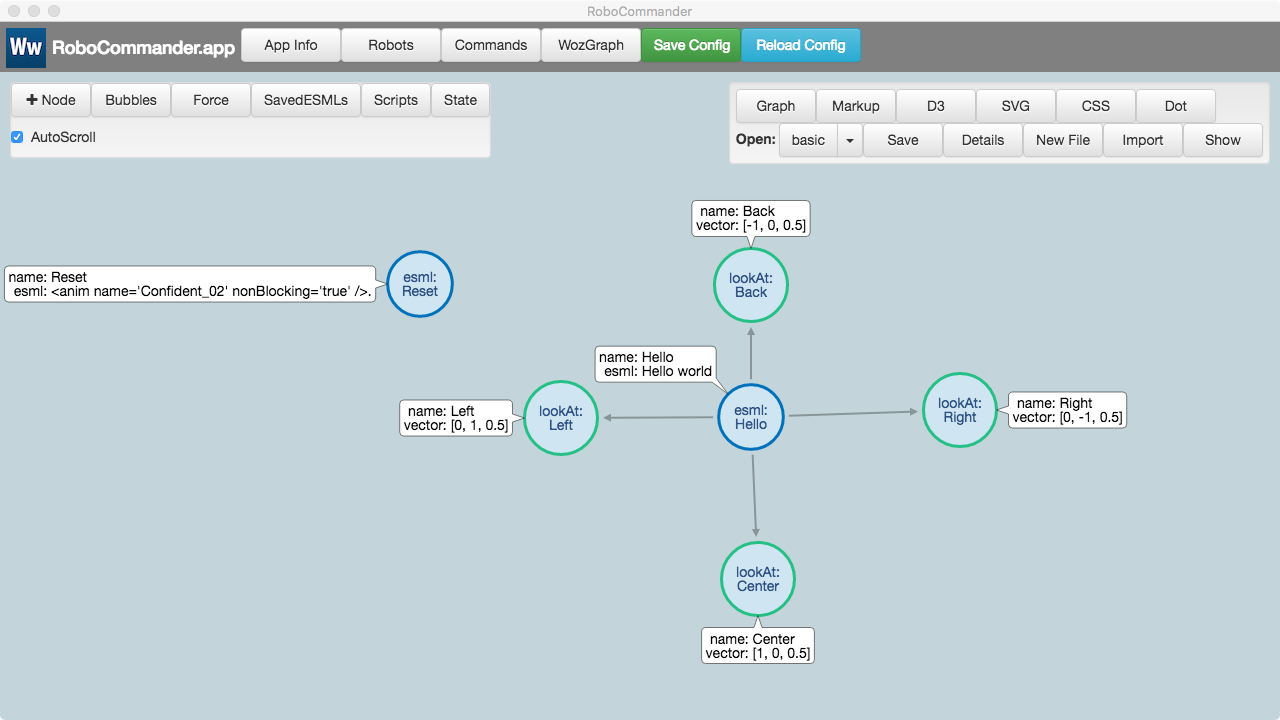
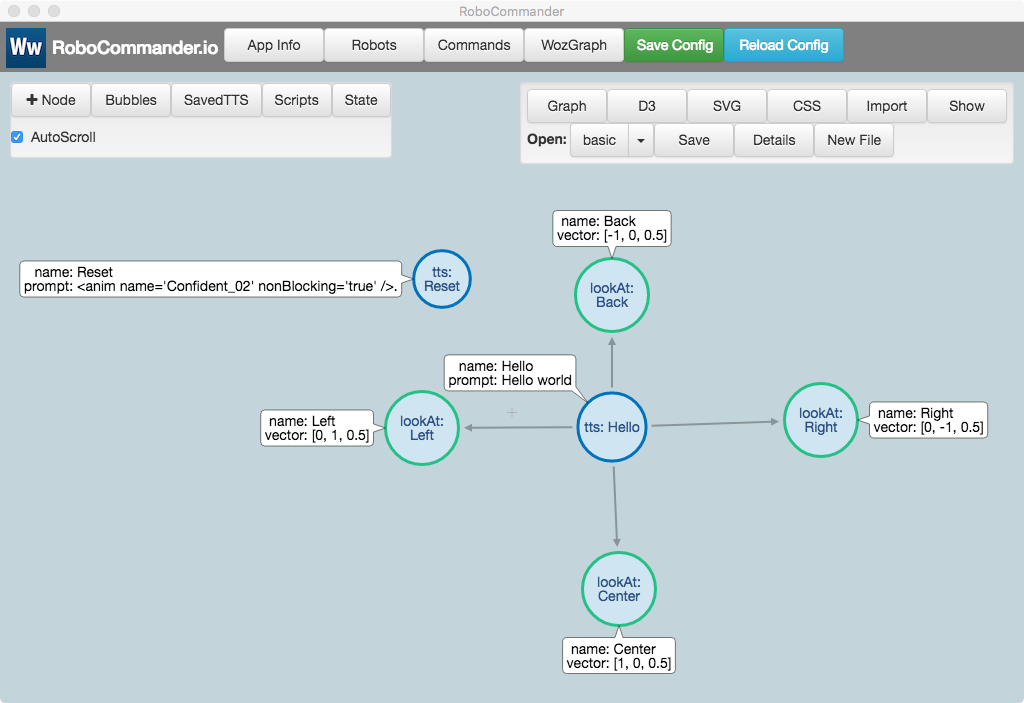
updated docs

diff --git a/src/renderer/components/grapheditor/ToolsPanel.tsx b/src/renderer/components/grapheditor/ToolsPanel.tsx
@@ -215,22 +215,27 @@ export default class ToolsPanel extends React.Component<ToolsPanelProps, ToolsPa
     }
 
     render() {
+        // <ReactBootstrap.Button bsStyle={'default'} key={"exportDot"} style = {{width: 80}}
+        // onClick={this.onButtonClicked.bind(this, "exportDot")}>Dot</ReactBootstrap.Button>
+        // <ReactBootstrap.Button bsStyle={'default'} key={"exportMarkup"} style = {{width: 80}}
+        // onClick={this.onButtonClicked.bind(this, "exportMarkup")}>Markup</ReactBootstrap.Button>
+
         return  <div className="editor-panel well" id="toolsPanel">
                   <div className="tools form-inline">
                     <ModalExport showModalProp={this.state.showModal} onClose={this.onCloseModalExport.bind(this)} graphModel={this.props.graphModel} exportMode={this.state.exportMode} />
                     <ModalFileDetails showModalProp={this.state.showFileDetailsModal} onClose={this.onCloseModalFileDetails.bind(this)} graphModel={this.props.graphModel} fileDetailsMode={this.state.fileDetailsMode} />
                     <ReactBootstrap.Button bsStyle={'default'} key={"exportGraph"} style = {{width: 80}}
                       onClick={this.onButtonClicked.bind(this, "exportGraph")}>Graph</ReactBootstrap.Button>
-                    <ReactBootstrap.Button bsStyle={'default'} key={"exportMarkup"} style = {{width: 80}}
-                      onClick={this.onButtonClicked.bind(this, "exportMarkup")}>Markup</ReactBootstrap.Button>
                     <ReactBootstrap.Button bsStyle={'default'} key={"exportD3"} style = {{width: 80}}
                       onClick={this.onButtonClicked.bind(this, "exportD3")}>D3</ReactBootstrap.Button>
                     <ReactBootstrap.Button bsStyle={'default'} key={"exportSVG"} style = {{width: 80}}
                       onClick={this.onButtonClicked.bind(this, "exportSVG")}>SVG</ReactBootstrap.Button>
                     <ReactBootstrap.Button bsStyle={'default'} key={"exportCSS"} style = {{width: 80}}
                       onClick={this.onButtonClicked.bind(this, "exportCSS")}>CSS</ReactBootstrap.Button>
-                  <ReactBootstrap.Button bsStyle={'default'} key={"exportDot"} style = {{width: 80}}
-                    onClick={this.onButtonClicked.bind(this, "exportDot")}>Dot</ReactBootstrap.Button>
+                  <ReactBootstrap.Button bsStyle={'default'} key={"import"} style = {{width: 80}}
+                      onClick={this.onButtonClicked.bind(this, "import")}>Import</ReactBootstrap.Button>
+                  <ReactBootstrap.Button bsStyle={'default'} key={"show"} style = {{width: 80}}
+                      onClick={this.onButtonClicked.bind(this, "show")}>Show</ReactBootstrap.Button>
 
                     <div>
                         <label className="input-label">Open:</label>
@@ -242,10 +247,7 @@ export default class ToolsPanel extends React.Component<ToolsPanelProps, ToolsPa
                           onClick={this.onButtonClicked.bind(this, "details")}>Details</ReactBootstrap.Button>
                         <ReactBootstrap.Button bsStyle={'default'} key={"newFile"} style = {{width: 80}}
                             onClick={this.onButtonClicked.bind(this, "newFile")}>New File</ReactBootstrap.Button>
-                        <ReactBootstrap.Button bsStyle={'default'} key={"import"} style = {{width: 80}}
-                            onClick={this.onButtonClicked.bind(this, "import")}>Import</ReactBootstrap.Button>
-                        <ReactBootstrap.Button bsStyle={'default'} key={"show"} style = {{width: 80}}
-                            onClick={this.onButtonClicked.bind(this, "show")}>Show</ReactBootstrap.Button>
+
                     </div>
                   </div>
                 </div>;

diff --git a/src/renderer/components/grapheditor/GraphEditor.tsx b/src/renderer/components/grapheditor/GraphEditor.tsx
@@ -717,6 +717,8 @@ export default class GraphEditor extends React.Component < GraphEditorProps, Gra
         let scriptPanel: JSX.Element | null = this.state.showScriptPanel ? <ScriptPanel graphModel={this.graphModel} /> : null;
         let stateDataPanel: JSX.Element | null = this.state.showStateDataPanel ? <StateDataPanel graphModel={this.graphModel} hideStateDataPanelCallback={this.hideStateDataPanel.bind(this)} targetedRobots={this.props.commanderModel.targetedRobots} /> : null;
         // <input id="internalScale" type="range" min="0.1" max="5" value={this.state.scale} step="0.01" onChange={this.changeInternalScale.bind(this)}/>
+        // <ReactBootstrap.Button id="forceLayoutButton" bsStyle={'default'} key={"forceLayout"} style = {{width: 80}}
+        //     onClick={this.onButtonClicked.bind(this, "forceLayout")}>Force</ReactBootstrap.Button>
 
         return (
             <div id="graphEditorContainer">
@@ -726,10 +728,8 @@ export default class GraphEditor extends React.Component < GraphEditorProps, Gra
                         onClick={this.onButtonClicked.bind(this, "addNode")}><FontAwesome name='plus'/> Node</ReactBootstrap.Button>
                     <ReactBootstrap.Button id="bubblesButton" bsStyle={'default'} key={"bubbles"} style = {{width: 80}}
                         onClick={this.onButtonClicked.bind(this, "bubbles")}>Bubbles</ReactBootstrap.Button>
-                    <ReactBootstrap.Button id="forceLayoutButton" bsStyle={'default'} key={"forceLayout"} style = {{width: 80}}
-                        onClick={this.onButtonClicked.bind(this, "forceLayout")}>Force</ReactBootstrap.Button>
                     <ReactBootstrap.Button id="ttsPanelButton" bsStyle={'default'} key={"ttsPanel"}
-                        onClick={this.onButtonClicked.bind(this, "ttsPanel")}>SavedTTSs</ReactBootstrap.Button>
+                        onClick={this.onButtonClicked.bind(this, "ttsPanel")}>SavedTTS</ReactBootstrap.Button>
                     <ReactBootstrap.Button id="scriptPanelButton" bsStyle={'default'} key={"scriptPanel"}
                         onClick={this.onButtonClicked.bind(this, "scriptPanel")}>Scripts</ReactBootstrap.Button>
                     <ReactBootstrap.Button id="stateDataPanelButton" bsStyle={'default'} key={"stateDataPanel"}

diff --git a/README.md b/README.md
@@ -32,9 +32,11 @@ yarn dist:dir
 
 ![RoboCommander](./docs/img/RoboCommander-panels.png)
 
+![RoboCommander](./docs/img/RoboCommander-robot-modal.png)
+
 ![RoboCommander](./docs/img/RoboCommander-basic.png)
 
-![RoboCommander](./docs/img/RoboCommander-robot-modal.png)
+![RoboCommander](./docs/img/RoboCommander-dialog.png)
 
 ### Linux setup
 * Recommend NodeJS 8.11.1
